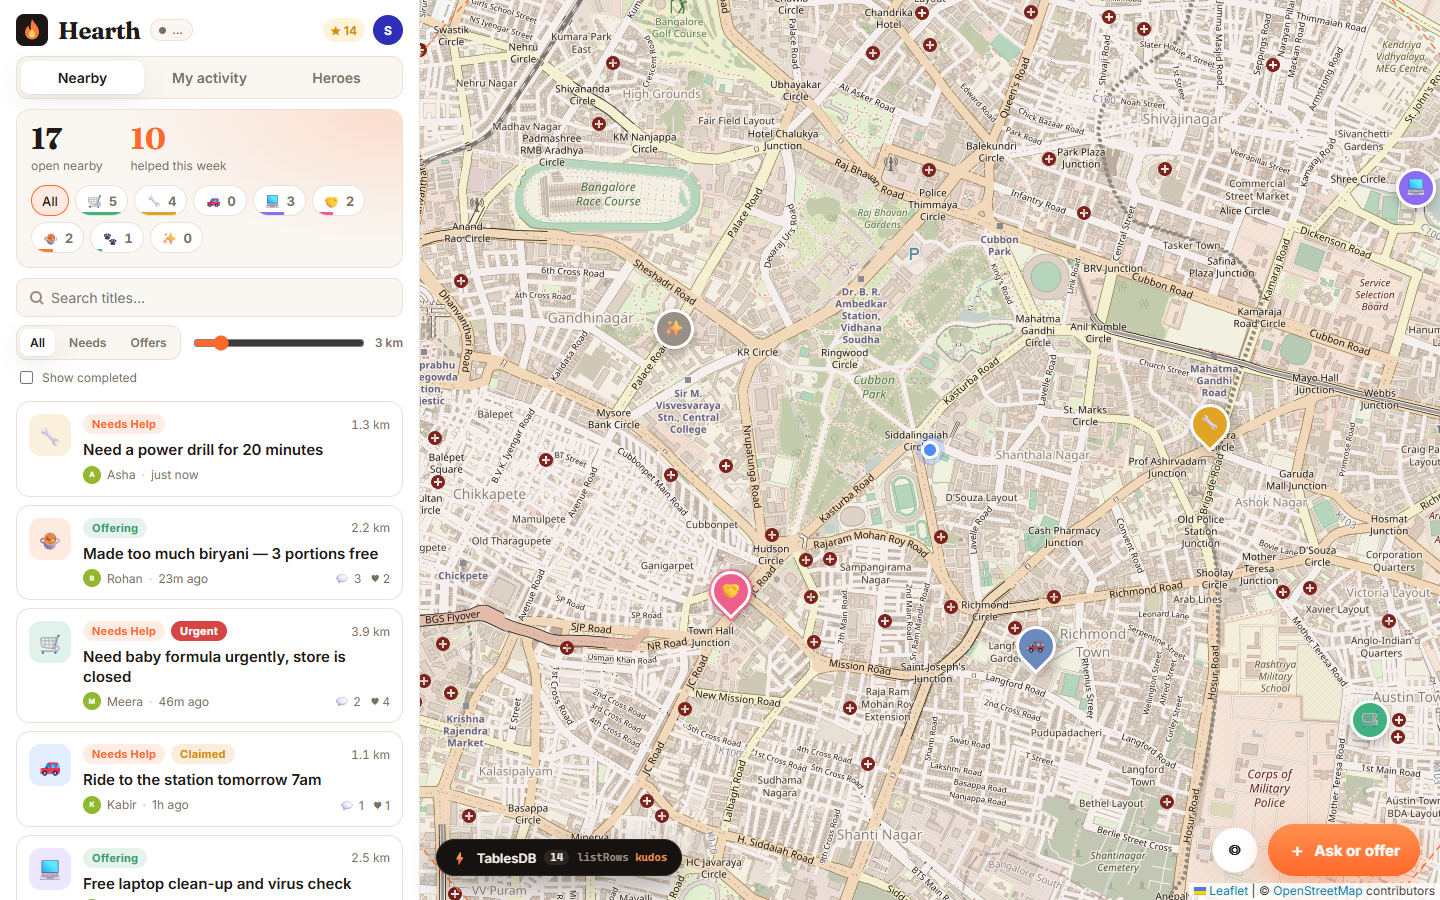
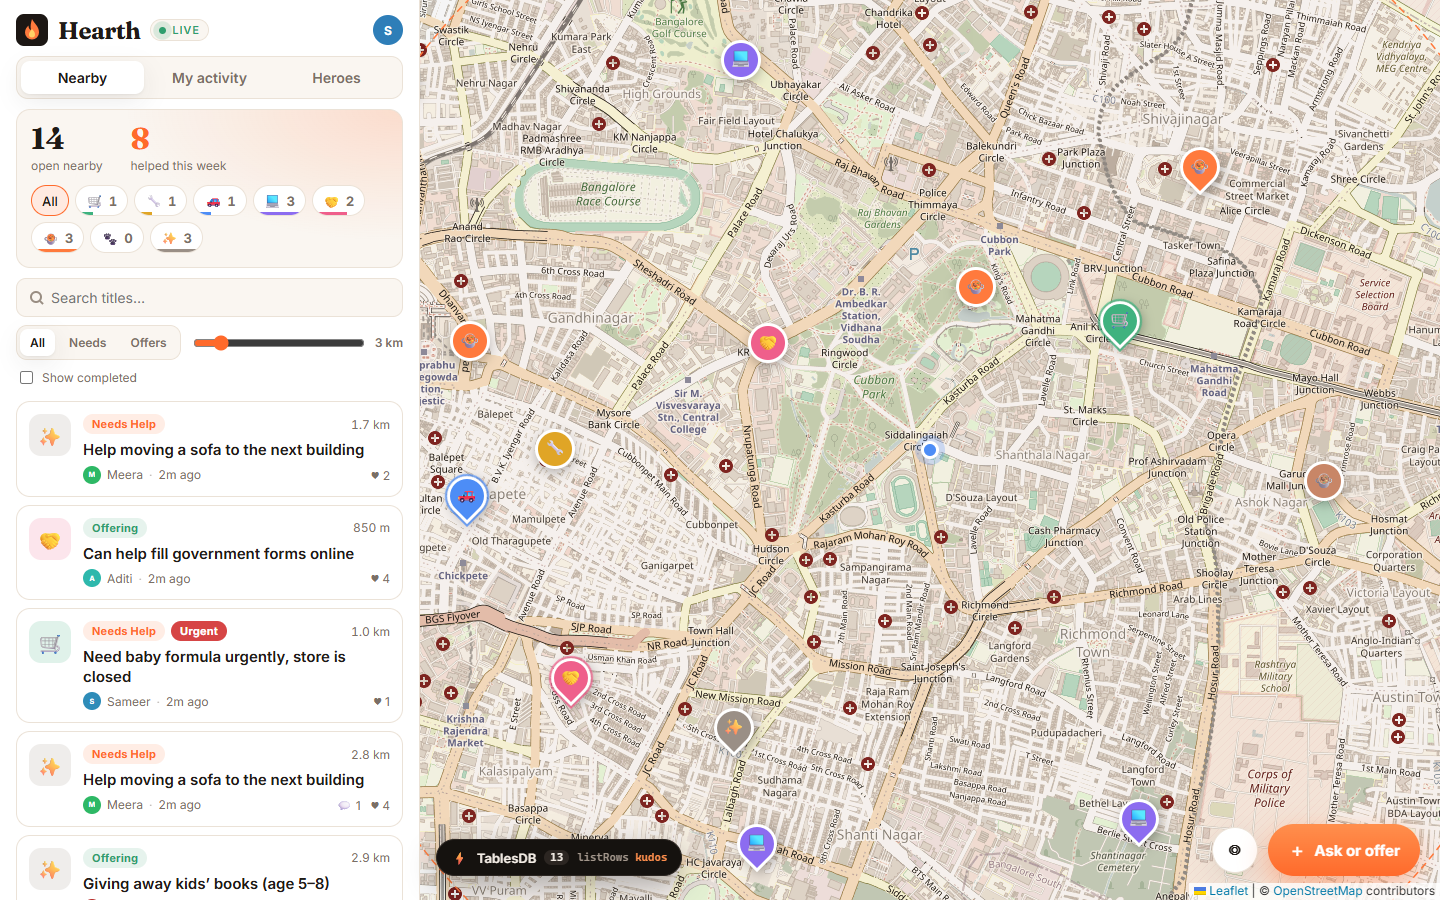
Verify against Appwrite Cloud (sgp): add smoke test, fix post deletion
- scripts/smoke.mjs (npm run smoke) exercises every TablesDB feature
  Hearth uses against a live project: spatial radius, full-text,
  relationship loading, groupBy/sum/count, Query.or, atomic operators,
  transactions including a forced 409 transaction_conflict on a double
  claim, createOperations across three tables, and cascade delete
- Authors can delete a post only until a neighbour replies; after that
  the cascade would touch other users' rows the author has no rights to
- Inspector renders nested Query.or/and properly
- README screenshot now shows real seeded data

diff --git a/src/lib/inspector.ts b/src/lib/inspector.ts
@@ -33,9 +33,9 @@ export function clearLog() {
 }
 
 /** Appwrite queries are JSON strings; render them like the SDK call that built them. */
-export function prettyQuery(raw: string): string {
+export function prettyQuery(raw: string | object): string {
   try {
-    const q = JSON.parse(raw) as { method: string; attribute?: string; values?: unknown[] };
+    const q = (typeof raw === 'string' ? JSON.parse(raw) : raw) as { method: string; attribute?: string; values?: unknown[] };
     const args: string[] = [];
     if (q.attribute) args.push(JSON.stringify(q.attribute));
     // Geo queries pack [point, distance, meters] into a single value; unpack for readability.
@@ -43,12 +43,14 @@ export function prettyQuery(raw: string): string {
       const [point, distance, meters] = q.values[0] as [number[], number, boolean];
       args.push(`[${point.map((n) => n.toFixed(4)).join(', ')}]`, String(distance), String(meters));
     } else if (q.values?.length) {
-      const nested = q.values.every((v) => typeof v === 'string' && v.startsWith('{'));
-      args.push(nested ? `[${(q.values as string[]).map(prettyQuery).join(', ')}]` : q.values.map((v) => JSON.stringify(v)).join(', '));
+      // Logical queries (or/and) nest whole queries, as JSON strings or objects.
+      const isQuery = (v: unknown) => (typeof v === 'string' && v.startsWith('{')) || (typeof v === 'object' && v !== null && 'method' in v);
+      const nested = q.values.every(isQuery);
+      args.push(nested ? `[${(q.values as (string | object)[]).map(prettyQuery).join(', ')}]` : q.values.map((v) => JSON.stringify(v)).join(', '));
     }
     return `Query.${q.method}(${args.join(', ')})`;
   } catch {
-    return raw;
+    return typeof raw === 'string' ? raw : JSON.stringify(raw);
   }
 }
 

diff --git a/src/components/PostDrawer.tsx b/src/components/PostDrawer.tsx
@@ -181,7 +181,9 @@ export function PostDrawer({ postId, livePost, me, origin, bus, onClose, onRequi
           <button className={`btn btn--ghost ${liked ? 'btn--liked' : ''}`} onClick={onHeart} title="Show some love">
             ♥ {post.hearts}
           </button>
-          {isAuthor && (
+          {/* Deletion is allowed until a neighbour engages; after that the thread
+              holds other people's rows, which the author has no rights over. */}
+          {isAuthor && post.status === 'open' && post.replies === 0 && (
             <button
               className="btn btn--ghost btn--danger"
               disabled={!!busy}

diff --git a/README.md b/README.md
@@ -24,14 +24,14 @@ Hearth is built to use as much of **Appwrite TablesDB** as a real product would,
 | **Full-text index** | Title search uses `Query.search('title', …)` on a `fulltext` index. |
 | **Enums, varchar, text, datetime, integer columns** | Typed schema for kind / category / status / urgency, plus expiry timestamps and counters with `min: 0`. |
 | **Compound key index** | `status + $createdAt` backs the main "open posts, newest first" query. |
-| **One-to-many relationships** | `posts → messages` (cascade delete: deleting a post removes its thread) and `posts → kudos` (set-null: kudos outlive a post). Threads load in a single call via `Query.select(['*', 'messages.*'])`. |
+| **One-to-many relationships** | `posts → messages` (cascade delete, so a post never leaves an orphaned thread) and `posts → kudos` (set-null: kudos outlive a post). Threads load in a single call via `Query.select(['*', 'messages.*'])`. |
 | **Transactions** | **Claiming** reads the post inside a transaction, stages the claim and a system message, then commits. If two neighbours tap *I can help* at the same moment, the second commit hits a conflict and nothing is applied, so the UI says "someone beat you to it". |
 | **Batch operations (`createOperations`)** | **Completing** a post stages four writes across three tables (post → `done`, a kudos row, a thank-you message, a counter increment) and commits them atomically. |
 | **Atomic counters & operators** | Hearts use `incrementRowColumn`; reply counts use `Operator.increment(1)` inside `updateRow`. No read-modify-write races. |
 | **Aggregations** | The **Neighbourhood Pulse** is `groupBy(['category']) + count()` within the radius. **Heroes** is `groupBy(['toId','toName']) + sum('points') + count()`. Your karma is a filtered `sum`. Both fall back to a narrow `select` + client tally on servers without aggregation. |
 | **Logical queries** | *My activity* is `Query.or([equal('authorId'), equal('helperId')])` on two indexed columns. |
 | **Cheap counts** | "Helped this week" is `equal('status','done') + updatedAfter(7 days) + limit(1)`, which reads only `total`. |
-| **Row security + permissions** | Anyone can read; signed-in users create/claim; only the author holds `delete` on their own post row. |
+| **Row security + permissions** | Anyone can read; signed-in users create/claim; only the author holds `delete` on their own post row, and only until a neighbour has replied. Other people's messages are never deletable by the author. |
 | **Realtime** | One websocket subscribes to `tablesdb.hearth.tables.{posts,messages,kudos}.rows`. New pins drop onto the map, threads update, and the pulse/heroes refresh live. |
 
 ### 🔍 The Query Inspector
@@ -76,13 +76,17 @@ There is no custom backend. Everything is the Appwrite client SDK talking to Tab
    ```bash
    npm run setup
    ```
-5. **Seed a neighbourhood** around `VITE_DEFAULT_LAT/LNG`:
+5. **Verify** every TablesDB feature against your project (spatial, full-text, relationships, aggregations, transactions incl. a forced conflict, batch ops, cascade):
+   ```bash
+   npm run smoke
+   ```
+6. **Seed a neighbourhood** around `VITE_DEFAULT_LAT/LNG`:
    ```bash
    npm run seed                  # ~45 posts with threads, claims and kudos
    npm run seed -- --live-only   # optional: a new neighbour posts every few seconds
    npm run seed -- --reset       # wipe and reseed
    ```
-6. **Start:**
+7. **Start:**
    ```bash
    npm run dev
    ```
